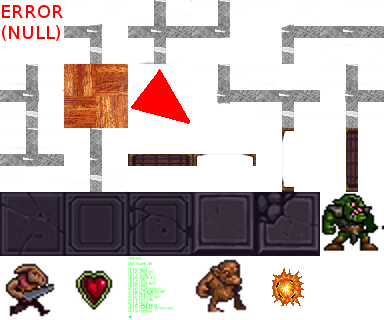
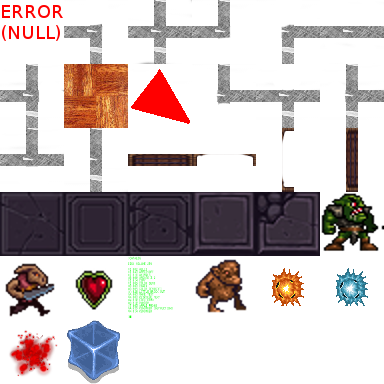
multi coloured fireballs power ups

diff --git a/src/Character.cpp b/src/Character.cpp
@@ -8,7 +8,7 @@ using namespace std;
 Character::Character(RTexture* texture, IMap * map)
 {
 	_texture = texture;
-
+	power_level=DEFAULT_POWER_LEVEL;
 	_map = map;
 	_health = MAX_HEALTH;
 	_state = ALIVE;
@@ -62,6 +62,14 @@ void Character::heal(int howMuchHeal)
 {
 	_health = min<int>(_health + howMuchHeal, MAX_HEALTH);
 }
+int Character::GetPowerLevel()
+{
+	return power_level;
+}
+int Character::SetPowerLevel(int x)
+{
+	return (power_level=x);
+}
 
 void Character::OnRenderCircle(SDL_Renderer *renderer, int radius, int tileIdx)
 {
@@ -102,9 +110,13 @@ void Character::OnRenderCircle(SDL_Renderer *renderer, int radius, int tileIdx)
 
 void Character::OnRender(SDL_Renderer *renderer)
 {
-	_texture->renderTile(renderer, getPosX(), getPosY());
+	if (GetState()==DEAD) {
+		_texture->renderTile(renderer, getPosX(), getPosY(), 30, SDL_FLIP_NONE);
+	} else {
+		_texture->renderTile(renderer, getPosX(), getPosY());
+	}
 }
-
+       
 void Character::setPos(int x, int y)
 {
 	_posX = x;
@@ -142,11 +154,13 @@ int Character::getPosAfterY()
 
 Fireball * Character::Shoot()
 {
+	if (GetState()!=ALIVE)
+		return 0;
 	globalAudios[GameSounds::FIREBALL].res.sound->play(-1, 0, 0);
-
+	
 	return new Fireball(getPosBeforeX() + last_dir_x,
 	                    getPosBeforeY() + last_dir_y,
-	                    last_dir_x, last_dir_y);
+	                    last_dir_x, last_dir_y, GetPowerLevel());
 }
 
 void Character::updateDirection(IMap *map, DIRECT directMove)

diff --git a/src/scene_game.cpp b/src/scene_game.cpp
@@ -357,10 +357,15 @@ void SceneGame::OnRender(SDL_Renderer* renderer)
 	/* render fireballs */
 	for (std::list<Fireball*>::iterator it = fireballs.begin();
 	                it != fireballs.end(); ++it) {
-		_tiles->renderTile(renderer, (*it)->getPosX(), (*it)->getPosY(), 28, SDL_FLIP_NONE);
+		int sprite;
+		if ( (*it)->GetPowerLevel() >30)
+			sprite= 29;
+		else
+			sprite=28;
+		_tiles->renderTile(renderer, (*it)->getPosX(), (*it)->getPosY(), sprite, SDL_FLIP_NONE);
 	}
 	/* check loss condition */
-	if (_player1->GetState() == Character::DEAD &&
+	if (_player1->GetState() == Character::DEAD ||
 	                _player2->GetState() == Character::DEAD) {
 		EngineInst->font()->printfLT(100,
 		                             map->GetHeight()*sizeDst, "You lost!");

diff --git a/src/Character.h b/src/Character.h
@@ -6,7 +6,7 @@
 #include "MapLogic/map.h"
 
 #define MAX_HEALTH 100
-
+#define DEFAULT_POWER_LEVEL 25;
 class Fireball;
 class Character
 {
@@ -37,6 +37,8 @@ public:
 	void OnRenderCircle(SDL_Renderer *renderer, int radius, int tileIdx);
 	void OnRender(SDL_Renderer *renderer);
 	void setPosTiles(IMap *map, int x, int y);
+	int GetPowerLevel();
+	int SetPowerLevel(int x);
 
 	int getPosX();
 	int getPosY();
@@ -61,6 +63,7 @@ public:
 
 private:
 	RTexture *_texture;
+	int power_level;
 
 	IMap * _map;
 	void setPos(int x, int y);

diff --git a/src/MapLogic/field.cpp b/src/MapLogic/field.cpp
@@ -29,6 +29,7 @@ void Field::EnsureFieldIdsInitialized()
 	assigned_field[DOOR_HORIZONTAL_OPEN] = 15;
 	assigned_field[MEDKIT] = 25;
 	assigned_field[DOSKEY] = 26;
+	assigned_field[POWERUP] = 31;
 	initialized = true;
 }
 int Field::GetTileId()
@@ -57,6 +58,10 @@ int Field::GetType() {
 
 void Field::SteppedOver(Character * who)
 {
+	if (type==POWERUP) {
+		type=FLOOR;
+		who->SetPowerLevel(who->GetPowerLevel()+20);
+	}
 	if (type==DOSKEY)
 		doskey_active++;
 	if (type==DOOR_VERTICAL_CLOSED)

diff --git a/src/fireball.h b/src/fireball.h
@@ -10,8 +10,9 @@ class Fireball
 	int vy;
 	int posX; // in pixels (margin not included)
 	int posY;
+	int power_level;
 public:
-	Fireball(int start_x, int start_y, int _vx, int _vy);
+	Fireball(int start_x, int start_y, int _vx, int _vy, int _power);
 
 	/**
 	 * Attempt to update position
@@ -20,7 +21,7 @@ public:
 	 * or it hit its proper target and should be discarded.
 	 */
 	int updatePosition(IMap *map, int time_ms);
-
+	int GetPowerLevel();
 	int getPosX();
 	int getPosY();
 };

diff --git a/src/fireball.cpp b/src/fireball.cpp
@@ -2,8 +2,9 @@
 #include "Engine/Engine.h"
 #include "Character.h"
 
-Fireball::Fireball(int start_x, int start_y, int _vx, int _vy)
+Fireball::Fireball(int start_x, int start_y, int _vx, int _vy, int level)
 {
+	power_level = level;
 	x = start_x;
 	y = start_y;
 	vx = _vx;
@@ -34,7 +35,9 @@ int Fireball::updatePosition(IMap *map, int time_ms)
 	}
 	return 0;
 }
-
+int Fireball::GetPowerLevel() {
+	return power_level;
+}
 int Fireball::getPosX()
 {
 	return posX;

diff --git a/src/MapLogic/map.cpp b/src/MapLogic/map.cpp
@@ -69,6 +69,9 @@ LoadedMap::LoadedMap(const char * path) {
 			case 'd':
 				new_field= new Field(IField::DESK);
 				break;
+			case 'u':
+				new_field= new Field(IField::POWERUP);
+				break;
 			case 'w':
 				new_field= new Field(IField::WALL);
 				break;

diff --git a/src/MapLogic/field.h b/src/MapLogic/field.h
@@ -31,7 +31,7 @@ public:
 		DOOR_VERTICAL_OPEN,
 		MEDKIT,
 		DOSKEY, /* dos computer that opens doors */
-
+		POWERUP,
 		NUM_FIELD_TYPES
   
   
